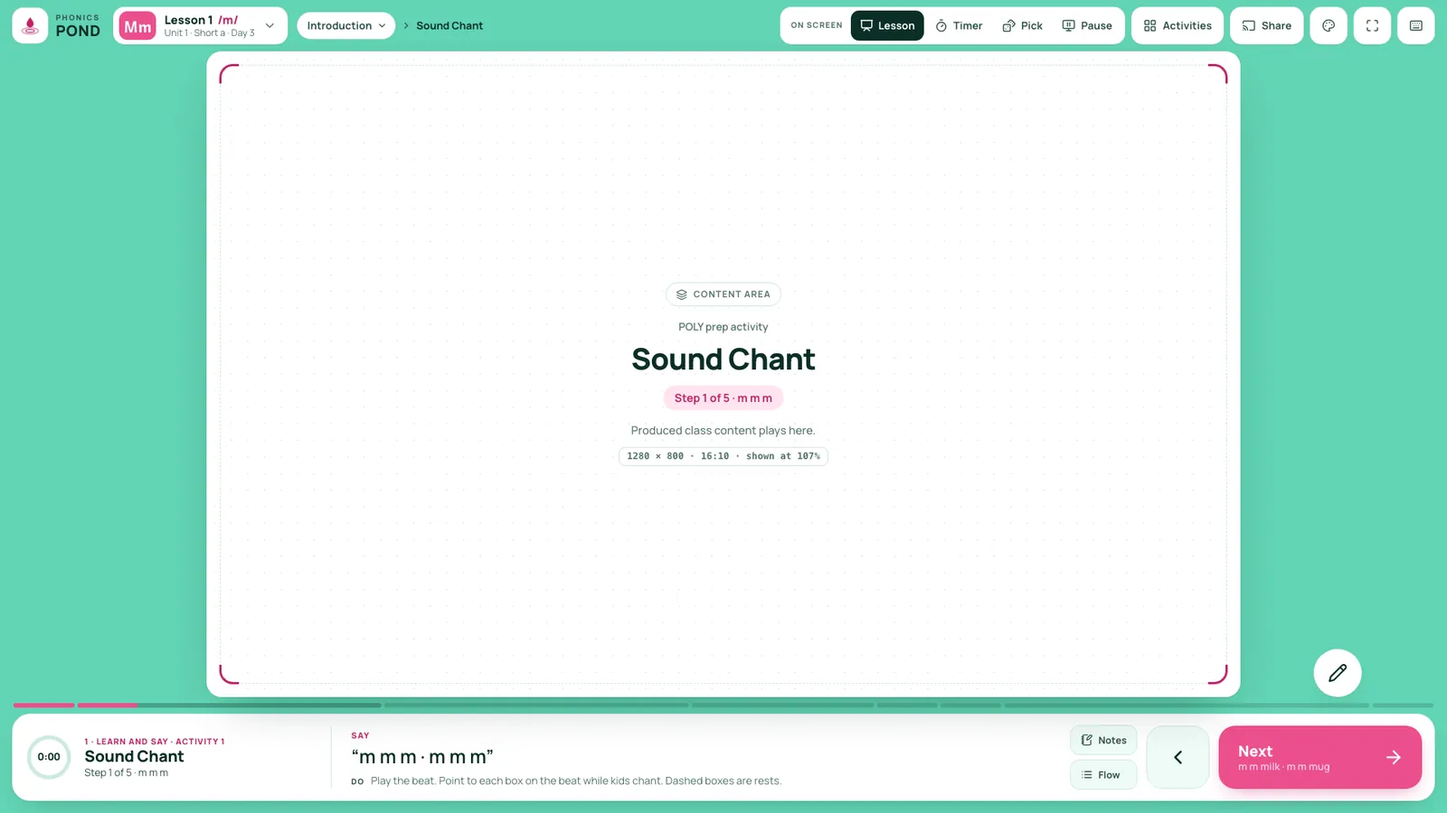
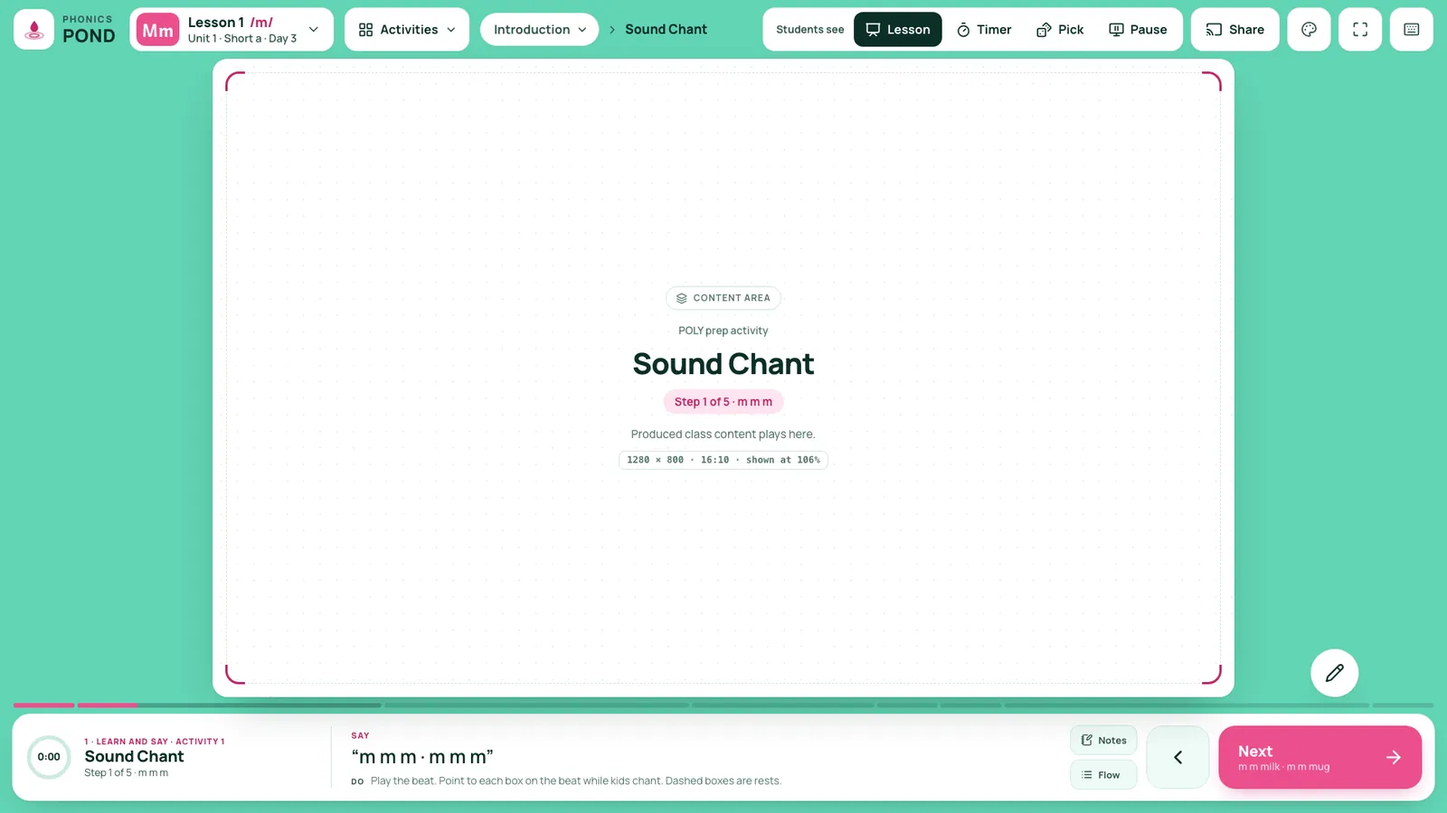
Readable top bar; Activities next to the lesson (source 5c49ebf)

Changed region(s): [[0.0, 0.0, 1.0, 0.84], [0.4375, 0.3422, 0.5625, 0.5911], [0.9062, 0.8089, 0.9375, 0.8711]]

diff --git a/assets/css/concept-b.css b/assets/css/concept-b.css
@@ -18,48 +18,57 @@ button:disabled{cursor:default}
 :focus-visible{outline:3px solid var(--focus);outline-offset:2px}
 
 /* ---------- app grid: controls bottom (default) / left / right · notes pop-up or side panel ---------- */
-.b-app{height:100vh;display:grid;grid-template-rows:68px minmax(0,1fr) auto;grid-template-columns:16px minmax(0,1fr) 16px;grid-template-areas:"top top top" ". stage ." "dock dock dock"}
+.b-app{height:100vh;display:grid;grid-template-rows:78px minmax(0,1fr) auto;grid-template-columns:16px minmax(0,1fr) 16px;grid-template-areas:"top top top" ". stage ." "dock dock dock"}
 .b-top{grid-area:top}
 .b-stagewrap{grid-area:stage}
 .b-dock{grid-area:dock}
 .b-npanel{grid-area:notes}
 :root[data-notes="panel"][data-npanel="shown"] .b-app{grid-template-columns:16px minmax(0,1fr) 16px 380px 16px;grid-template-areas:"top top top top top" ". stage . notes ." "dock dock dock dock dock"}
-:root[data-controls="left"] .b-app{grid-template-rows:68px minmax(0,1fr) 16px;grid-template-columns:16px 344px 16px minmax(0,1fr) 16px;grid-template-areas:"top top top top top" ". dock . stage ." ". . . . ."}
+:root[data-controls="left"] .b-app{grid-template-rows:78px minmax(0,1fr) 16px;grid-template-columns:16px 344px 16px minmax(0,1fr) 16px;grid-template-areas:"top top top top top" ". dock . stage ." ". . . . ."}
 :root[data-controls="left"][data-notes="panel"][data-npanel="shown"] .b-app{grid-template-columns:16px 344px 16px minmax(0,1fr) 16px 360px 16px;grid-template-areas:"top top top top top top top" ". dock . stage . notes ." ". . . . . . ."}
-:root[data-controls="right"] .b-app{grid-template-rows:68px minmax(0,1fr) 16px;grid-template-columns:16px minmax(0,1fr) 16px 344px 16px;grid-template-areas:"top top top top top" ". stage . dock ." ". . . . ."}
+:root[data-controls="right"] .b-app{grid-template-rows:78px minmax(0,1fr) 16px;grid-template-columns:16px minmax(0,1fr) 16px 344px 16px;grid-template-areas:"top top top top top" ". stage . dock ." ". . . . ."}
 :root[data-controls="right"][data-notes="panel"][data-npanel="shown"] .b-app{grid-template-columns:16px 360px 16px minmax(0,1fr) 16px 344px 16px;grid-template-areas:"top top top top top top top" ". notes . stage . dock ." ". . . . . . ."}
 
 /* ---------- top ---------- */
-.b-top{display:flex;align-items:center;gap:12px;padding:0 16px;min-width:0}
-.b-brand{display:flex;align-items:center;gap:10px;flex:none;height:50px;padding-right:4px;text-decoration:none;color:var(--tx)}
-.b-logo{display:grid;place-items:center;width:48px;height:48px;border-radius:15px;background:var(--d2);border:1px solid var(--d3);color:var(--acc-text)}
-.b-logo svg{width:28px;height:28px}
+.b-top{display:flex;align-items:center;gap:14px;padding:0 18px;min-width:0}
+.b-brand{display:flex;align-items:center;gap:11px;flex:none;height:56px;padding-right:4px;text-decoration:none;color:var(--tx)}
+.b-logo{display:grid;place-items:center;width:54px;height:54px;border-radius:16px;background:var(--d2);border:1px solid var(--d3);color:var(--acc-text)}
+.b-logo svg{width:31px;height:31px}
 .b-wm{display:grid;line-height:1}
-.b-wm small{font-size:10px;font-weight:800;letter-spacing:.18em;text-transform:uppercase;color:var(--tx3)}
-.b-wm b{margin-top:3px;font-size:20px;font-weight:800;letter-spacing:.04em}
-.b-lesson{display:flex;align-items:center;gap:11px;flex:none;height:50px;padding:0 14px 0 7px;border-radius:15px;border:1px solid var(--d3);background:var(--d2);text-align:left;color:var(--tx3);transition:border-color .15s,background .15s}
+.b-wm small{font-size:12px;font-weight:800;letter-spacing:.14em;text-transform:uppercase;color:var(--tx2)}
+.b-wm b{margin-top:3px;font-size:24px;font-weight:800;letter-spacing:.03em}
+.b-lesson{display:flex;align-items:center;gap:12px;flex:none;height:58px;padding:0 16px 0 8px;border-radius:16px;border:1px solid var(--d3);background:var(--d2);text-align:left;color:var(--tx3);transition:border-color .15s,background .15s}
 .b-lesson:hover{border-color:var(--d4);background:var(--d3)}
-.b-lt{display:grid;place-items:center;min-width:38px;height:38px;padding:0 6px;border-radius:11px;background:var(--acc);color:var(--acc-ink);font:700 21px/1 var(--kid)}
-.b-ltx{display:grid;line-height:1.2}
-.b-ltx b{font-size:15.5px;font-weight:800;color:var(--tx)}
+.b-lesson>.i{width:20px;height:20px;color:var(--tx2)}
+.b-acts{display:inline-flex;align-items:center;gap:9px;flex:none;height:58px;padding:0 15px 0 17px;border-radius:16px;border:1px solid var(--d3);background:var(--d2);color:var(--tx);font-size:16.5px;font-weight:700;white-space:nowrap;transition:border-color .15s,background .15s}
+.b-acts:hover{border-color:var(--d4);background:var(--d3)}
+.b-acts .i{width:21px;height:21px}
+.b-acts .b-dd{width:17px;height:17px;color:var(--tx2)}
+.b-acts.is-on{background:var(--tx);border-color:var(--tx);color:var(--bg)}
+.b-acts.is-on .b-dd{color:var(--bg);opacity:.7}
+.b-lt{display:grid;place-items:center;min-width:44px;height:44px;padding:0 7px;border-radius:12px;background:var(--acc);color:var(--acc-ink);font:700 24px/1 var(--kid)}
+.b-ltx{display:grid;gap:2px;line-height:1.2}
+.b-ltx b{font-size:18px;font-weight:800;color:var(--tx)}
 .b-ltx b i{font-style:normal;color:var(--acc-text);margin-left:3px}
-.b-ltx small{font-size:12.5px;color:var(--tx3)}
-.b-crumb{display:flex;align-items:center;gap:7px;min-width:0;font-size:14px;color:var(--tx3);white-space:nowrap;overflow:hidden}
-.b-crumb .i{width:14px;height:14px;color:var(--d4)}
-.b-crumb b{color:var(--tx);font-weight:700;overflow:hidden;text-overflow:ellipsis}
+.b-ltx small{font-size:14.5px;font-weight:600;color:var(--tx2)}
+.b-crumb{display:flex;align-items:center;gap:9px;min-width:0;font-size:17px;color:var(--tx2);white-space:nowrap;overflow:hidden}
+.b-crumb .i{width:17px;height:17px;color:var(--tx3)}
+.b-crumb b{color:var(--tx);font-weight:800;overflow:hidden;text-overflow:ellipsis}
 .b-crumb span{color:var(--tx2)}
-.b-crumb button{display:inline-flex;align-items:center;gap:6px;height:36px;padding:0 10px 0 13px;border-radius:999px;border:1px solid var(--d3);background:transparent;color:var(--tx2);font-weight:700}
+.b-crumb button{display:inline-flex;align-items:center;gap:7px;height:44px;padding:0 13px 0 17px;border-radius:999px;font-size:16.5px;border:1px solid var(--d3);background:transparent;color:var(--tx2);font-weight:700}
 .b-crumb button:hover{background:var(--d2);color:var(--tx)}
 .b-crumb button .i{color:var(--tx3)}
-.b-utils{margin-left:auto;display:flex;align-items:center;gap:8px;flex:none}
-.b-ubtn{display:inline-flex;align-items:center;justify-content:center;gap:8px;height:50px;padding:0 15px;border-radius:15px;border:1px solid var(--d3);background:var(--d2);color:var(--tx2);font-size:14px;font-weight:700;white-space:nowrap}
+.b-utils{margin-left:auto;display:flex;align-items:center;gap:10px;flex:none}
+.b-ubtn{display:inline-flex;align-items:center;justify-content:center;gap:9px;height:58px;padding:0 19px;border-radius:16px;border:1px solid var(--d3);background:var(--d2);color:var(--tx);font-size:16.5px;font-weight:700;white-space:nowrap}
+.b-ubtn .i{width:22px;height:22px}
 .b-ubtn:hover{background:var(--d3);color:var(--tx)}
-.b-ubtn--icon{width:50px;padding:0}
+.b-ubtn--icon{width:58px;padding:0;color:var(--tx2)}
 .b-share.is-live{border-color:var(--ok);color:var(--tx)}
 /* what students see: lesson · timer · pick · pause */
-.b-scenes{display:flex;align-items:center;gap:2px;padding:4px;border-radius:15px;background:var(--d2);border:1px solid var(--d3)}
-.b-scnl{display:inline-flex;align-items:center;gap:7px;padding:0 8px 0 9px;font-size:10.5px;font-weight:800;letter-spacing:.1em;text-transform:uppercase;color:var(--tx3);white-space:nowrap}
-.b-scenes button{display:inline-flex;align-items:center;gap:7px;height:40px;padding:0 12px;border-radius:11px;border:0;background:transparent;color:var(--tx2);font-size:14px;font-weight:700;white-space:nowrap}
+.b-scenes{display:flex;align-items:center;gap:3px;height:58px;padding:5px;border-radius:16px;background:var(--d2);border:1px solid var(--d3)}
+.b-scnl{display:inline-flex;align-items:center;gap:8px;padding:0 10px 0 12px;font-size:14px;font-weight:700;color:var(--tx2);white-space:nowrap}
+.b-scenes button{display:inline-flex;align-items:center;gap:8px;height:46px;padding:0 15px;border-radius:12px;border:0;background:transparent;color:var(--tx);font-size:16.5px;font-weight:700;white-space:nowrap}
+.b-scenes button .i{width:21px;height:21px}
 .b-scenes button:hover{background:var(--d3);color:var(--tx)}
 .b-scenes button[aria-pressed="true"]{background:var(--tx);color:var(--bg)}
 .b-live{display:inline-block;flex:none;width:10px;height:10px;border-radius:50%;background:var(--ok);animation:b-livep 1.8s ease-out infinite}
@@ -503,8 +512,11 @@ kbd{display:inline-grid;place-items:center;min-width:28px;height:26px;padding:0 
 
 /* ---------- responsive ---------- */
 @media (max-height:1000px){.b-tool{width:44px;height:44px}.b-tool .i{width:20px;height:20px}.b-sw{width:28px;height:28px;margin:4px 6px}.b-wd{height:34px}}
-@media (max-width:1760px){.b-scnl>span{display:none}.b-scnl{padding:0 4px}.b-scnl:empty{display:none}}
-@media (max-width:1500px){.b-dockrow{grid-template-columns:minmax(250px,300px) minmax(0,1fr) auto}.b-say p{font-size:21px}.b-ubtn span,.b-scenes button span,.b-wm{display:none}.b-next{min-width:220px}.b-scenes button{padding:0 11px}.b-chip{min-width:56px;padding:0 12px}}
+@media (max-width:1840px){.b-scnl>span{display:none}.b-scnl{padding:0 4px}.b-scnl:empty{display:none}.b-crumb{font-size:16px}}
+@media (max-width:1760px){.b-wm{display:none}}
+@media (max-width:1680px){.b-scenes button{padding:0 13px}}
+@media (max-width:1640px){.b-acts span{display:none}.b-acts{padding:0 13px 0 15px}}
+@media (max-width:1500px){.b-dockrow{grid-template-columns:minmax(250px,300px) minmax(0,1fr) auto}.b-say p{font-size:21px}.b-ubtn span,.b-scenes button span,.b-acts span,.b-wm{display:none}.b-next{min-width:220px}.b-scenes button{padding:0 11px}.b-chip{min-width:56px;padding:0 12px}}
 @media (max-width:1180px){.b-crumb{display:none}.b-toggles{display:none}.b-say,.b-tooltray{display:none}.b-dockrow{grid-template-columns:minmax(0,1fr) auto}}
 
 /* ---------- bright themes (Mint · Yellow): the dark frame becomes colour, panels turn white ---------- */
@@ -524,8 +536,8 @@ kbd{display:inline-grid;place-items:center;min-width:28px;height:26px;padding:0 
   --frame-track:rgba(29,26,15,.14); --frame-track-2:rgba(29,26,15,.28);
   --ok:#0E9F6E; --warn:#EA580C; --sb:#2563EB; color-scheme:light;
 }
-:root[data-tone="bright"] .b-logo,:root[data-tone="bright"] .b-lesson,:root[data-tone="bright"] .b-scenes,:root[data-tone="bright"] .b-ubtn,:root[data-tone="bright"] .b-crumb button{background:var(--d1);border-color:rgba(0,0,0,.06);box-shadow:0 1px 2px rgba(0,0,0,.06)}
-:root[data-tone="bright"] .b-lesson:hover,:root[data-tone="bright"] .b-ubtn:hover,:root[data-tone="bright"] .b-crumb button:hover,:root[data-tone="bright"] .b-scenes button:hover{background:var(--d2)}
+:root[data-tone="bright"] .b-logo,:root[data-tone="bright"] .b-lesson,:root[data-tone="bright"] .b-acts:not(.is-on),:root[data-tone="bright"] .b-scenes,:root[data-tone="bright"] .b-ubtn,:root[data-tone="bright"] .b-crumb button{background:var(--d1);border-color:rgba(0,0,0,.06);box-shadow:0 1px 2px rgba(0,0,0,.06)}
+:root[data-tone="bright"] .b-lesson:hover,:root[data-tone="bright"] .b-acts:not(.is-on):hover,:root[data-tone="bright"] .b-ubtn:hover,:root[data-tone="bright"] .b-crumb button:hover,:root[data-tone="bright"] .b-scenes button:hover{background:var(--d2)}
 :root[data-tone="bright"] .b-scenes button[aria-pressed="true"]{background:var(--tx);color:var(--d1)}
 :root[data-tone="bright"] .b-share.is-live{border-color:var(--ok)}
 :root[data-tone="bright"] .b-crumb,:root[data-tone="bright"] .b-crumb .i,:root[data-tone="bright"] .b-wm small,:root[data-tone="bright"] .b-maphead p,:root[data-tone="bright"] .b-ucol h3 span,:root[data-tone="bright"] .b-pausein small{color:var(--tx2)}

diff --git a/index.html b/index.html
@@ -142,7 +142,7 @@ dialog button{position:fixed;top:20px;right:24px;width:48px;height:48px;border-r
       <p class="lead">외국인 강사가 교실 전자칠판에서 쓰는 <b>수업 진행 화면</b>입니다. v18 프로토타입의 메뉴와 수업 흐름(<b>Lesson → Section → Activity → Step</b>)은 그대로 쓰고 화면 틀만 새로 설계했습니다. <b>콘텐츠 영역은 비워 둔 슬롯</b>으로, 제작 콘텐츠가 들어갈 자리의 실제 크기(px)를 실시간으로 보여 줍니다.</p>
     </div>
     <div class="facts">
-      <div class="fact"><small>Screen</small><b class="num">1920 × 1080 e-board</b></div>
+      <div class="fact"><small>Teacher</small><b class="num">PC 1920 × 1080</b></div>
       <div class="fact"><small>UI language</small><b>English</b></div>
       <div class="fact"><small>Lessons</small><b class="num">L1–30 연결</b></div>
       <div class="fact"><small>Student screen</small><b class="num">1280 × 800 · 16:10</b></div>
@@ -175,12 +175,13 @@ dialog button{position:fixed;top:20px;right:24px;width:48px;height:48px;border-r
         <p class="desc">학생 화면은 학원 콘텐츠 규격인 <b>1280 × 800(16:10)</b>으로 고정하고, 대시보드에서는 양옆 여백을 두고 비율 그대로 보여 줍니다. 진행 버튼과 지금 할 말은 손이 닿는 독에 모았고, 컨트롤 위치 · 노트 방식 · 컬러는 강사가 고릅니다.</p>
         <ul class="points">
           <li><svg class="i"><use href="#check"/></svg><span>학생 화면 전환 <b>Lesson · Timer · Pick · Pause</b> — 타이머 <kbd>T</kbd> · 학생 뽑기 <kbd>P</kbd> · 주목 <kbd>B</kbd></span></li>
+          <li><svg class="i"><use href="#check"/></svg><span>레슨 옆 <b>Activities</b> — 그 레슨의 노래 · 율동 · 게임 바로가기</span></li>
           <li><svg class="i"><use href="#check"/></svg>판서 도구는 플로팅 펜 버튼 안에 — 누를 때만 펼침</li>
           <li><svg class="i"><use href="#check"/></svg><span><b>Share</b> 교실 화면(두 번째 화면 · 프로젝터) 실시간 미러링 — 노트 · 컨트롤은 안 보임</span></li>
           <li><svg class="i"><use href="#check"/></svg>레슨별 파닉스 게임 — Croco Phonics · Magic Block · Phonics Match · Phonics Island</li>
           <li><svg class="i"><use href="#check"/></svg>Display — 컨트롤 하단 · 왼쪽 · 오른쪽, 노트 팝업 · 사이드 패널, Dark · Mint · Yellow</li>
         </ul>
-        <dl class="meta"><dt>Content</dt><dd class="num">1280 × 800 · 16:10 <small>· 1920 화면에서 1373 × 858 (107%)</small></dd><dt>Tone</dt><dd>Dark · Mint · Yellow · Manrope</dd><dt>Best for</dt><dd>숙련 강사, 아이들 시선을 칠판에 모을 때</dd></dl>
+        <dl class="meta"><dt>Content</dt><dd class="num">1280 × 800 · 16:10 <small>· 1920 화면에서 1357 × 848 (106%)</small></dd><dt>Tone</dt><dd>Dark · Mint · Yellow · Manrope</dd><dt>Best for</dt><dd>숙련 강사, 아이들 시선을 칠판에 모을 때</dd></dl>
         <div class="cta"><a href="concept-b-stage.html?theme=dark" data-page="concept-b-stage.html">Concept B 열기<svg class="i"><use href="#arrow"/></svg></a></div>
       </div>
     </article>
@@ -211,7 +212,7 @@ dialog button{position:fixed;top:20px;right:24px;width:48px;height:48px;border-r
         <tr><th>진행 방식</th><td>왼쪽 흐름 목록 · 하단 <b>Next step</b></td><td>하단 <b>Next</b> · 진행 세그먼트 · 리모컨</td><td>스크립트 줄 선택 · <b>Next line</b></td></tr>
         <tr><th>강사 가이드</th><td>항상 표시 (접기 가능)</td><td>노트 팝업 또는 사이드 패널</td><td>스크립트 자체가 가이드</td></tr>
         <tr><th>레슨 이동</th><td>상단 팝오버 (6유닛 × 5레슨)</td><td>전체 화면 레슨맵 + 섹션 미리보기</td><td>목차(Contents) 팝오버</td></tr>
-        <tr><th>콘텐츠 영역</th><td class="num"><b>1198 × 760</b> → 1582 × 760</td><td class="num"><b>1280 × 800</b> 고정 → 1373 × 858</td><td class="num"><b>1271 × 845</b> → 1891 × 845</td></tr>
+        <tr><th>콘텐츠 영역</th><td class="num"><b>1198 × 760</b> → 1582 × 760</td><td class="num"><b>1280 × 800</b> 고정 → 1357 × 848</td><td class="num"><b>1271 × 845</b> → 1891 × 845</td></tr>
         <tr><th>톤</th><td>라이트 · POLY Blue</td><td>다크 · 민트 · 옐로 (테마 3종)</td><td>쿨 그레이 · 번트 오렌지</td></tr>
         <tr><th>잘 맞는 상황</th><td>처음 이 교재를 가르칠 때</td><td>진행이 익숙하고 몰입이 중요할 때</td><td>TG 대본을 그대로 따를 때</td></tr>
       </tbody>

diff --git a/assets/js/concept-b.js b/assets/js/concept-b.js
@@ -211,9 +211,17 @@
   }
 
   /* ---------- what students see (top bar) ---------- */
+  // what students see: the lesson, a class activity or game, or a class tool
   const SCENES = [['lesson', 'presentation', 'Lesson', 'Show the lesson'], ['timer', 'timer', 'Timer', 'Timer (T)'], ['pick', 'dices', 'Pick', 'Pick a student (P)'], ['pause', 'monitor-pause', 'Pause', 'Eyes on me (B)']];
   function renderScenes() {
-    $('#scenes').innerHTML = `<span class="b-scnl" title="${live ? 'Sharing to the classroom screen' : 'What students see'}">${live ? '<i class="b-live" aria-hidden="true"></i>' : ''}<span>On screen</span></span>${SCENES.map(([v, i, l, t]) => `<button type="button" data-b="scene" data-v="${v}" aria-pressed="${scene === v}" title="${t}">${ic(i)}<span>${l}</span></button>`).join('')}`;
+    const el = $('#scenes'); if (!el || !FP.lesson()) return;
+    el.innerHTML = `<span class="b-scnl" title="${live ? 'Sharing to the classroom screen' : 'What students see'}">${live ? '<i class="b-live" aria-hidden="true"></i>' : ''}<span>Students see</span></span>${SCENES.map(([v, i, l, t]) => `<button type="button" data-b="scene" data-v="${v}" aria-pressed="${scene === v}" title="${t}">${ic(i)}<span>${l}</span></button>`).join('')}`;
+  }
+  function renderActs() {   // the lesson's class activities + games, next to the lesson button
+    const b = $('#extrasBtn'); if (!b || !FP.lesson()) return;
+    const on = FP.mode() === 'extra';
+    b.classList.toggle('is-on', on); b.setAttribute('aria-pressed', on);
+    b.innerHTML = `${ic('grid')}<span>Activities</span>${ic('chevron-down', 'b-dd')}`;
   }
   function setScene(v) {
     if (v === 'pause' && scene === 'pause') v = resumeTo;
@@ -522,7 +530,7 @@
       case 'flow': toggleSheet('flow'); break;
       case 'ntab': notesTab = v; renderNotes(); break;
       case 'say': FP.speak(v); break;
-      case 'extra': FP.openExtra(v); if ($('#extrasPop').matches(':popover-open')) $('#extrasPop').hidePopover(); break;
+      case 'extra': FP.openExtra(v); if ($('#extrasPop').matches(':popover-open')) $('#extrasPop').hidePopover(); if (scene !== 'lesson') setScene('lesson'); break;
       case 'sections': sectionsMenu(t); break;
       case 'sec': { FP.setSection(+v); const sm = $('#secMenu'); if (sm && sm.matches(':popover-open')) sm.hidePopover(); break; }
       case 'mappick': mapPick = +v; renderMap(); break;
@@ -555,15 +563,21 @@
     $('#' + p).addEventListener('beforetoggle', e => {
       if (e.newState !== 'open') return; if (fill) fill();
       const r = $('#' + b).getBoundingClientRect(), pop = $('#' + p);
-      pop.style.top = (r.bottom + 10) + 'px'; pop.style.right = Math.max(10, innerWidth - r.right) + 'px'; pop.style.left = 'auto';
+      pop.style.top = (r.bottom + 10) + 'px';
+      if (p === 'extrasPop') { pop.style.left = r.left + 'px'; pop.style.right = 'auto'; }
+      else { pop.style.right = Math.max(10, innerWidth - r.right) + 'px'; pop.style.left = 'auto'; }
     });
+  });
+  $('#extrasPop').addEventListener('toggle', e => {
+    if (e.newState !== 'open') return; const pop = $('#extrasPop');
+    pop.style.left = Math.max(10, Math.min(parseFloat(pop.style.left) || 10, innerWidth - pop.offsetWidth - 10)) + 'px';
   });
   $('#rosterPop').addEventListener('beforetoggle', e => { if (e.newState === 'open') renderRoster(); });
   $('#rosterPop').addEventListener('toggle', e => { if (e.newState === 'open') { const tx = $('#rosterTx'); if (tx) tx.focus(); } });
 
   FP.on(e => {
     if (e.type === 'lesson') { refreshGames(); renderTop(); }
-    if (e.type === 'nav') { renderCrumb(); renderDock(); renderFlow(); renderNotes(); renderGame(); broadcast(); }
+    if (e.type === 'nav') { renderCrumb(); renderActs(); renderDock(); renderFlow(); renderNotes(); renderGame(); broadcast(); }
     if (e.type === 'ink') { renderFab(); broadcast(); }
     if (e.type === 'inkmove') broadcastInk();
     if (e.type === 'key') {
@@ -592,7 +606,7 @@
 
   FP.mount($('#stage'), { storageKey: 'fprk-b', keepAwake: true, fresh: qs.has('fresh'), lesson: +qs.get('lesson') || 1, act: qs.get('act') || 'ls1', design: DESIGN });
   addLayers(); refreshGames();
-  renderScenes(); renderFab(); renderShareBtn(); renderDock(); renderGame();
+  renderScenes(); renderActs(); renderFab(); renderShareBtn(); renderDock(); renderGame();
   new ResizeObserver(() => placeFab()).observe($('#stagewrap'));
   placeFab();
   if (qs.get('scene')) setScene(qs.get('scene'));   // QA / deep link: ?scene=timer|pick|pause

diff --git a/concept-b-stage.html b/concept-b-stage.html
@@ -12,8 +12,8 @@ r.dataset.theme=t;r.dataset.tone=t==='dark'?'dark':'bright';r.dataset.controls=c
 <link rel="preconnect" href="https://fonts.googleapis.com">
 <link rel="preconnect" href="https://fonts.gstatic.com" crossorigin>
 <link rel="stylesheet" href="https://fonts.googleapis.com/css2?family=Andika:wght@400;700&family=Manrope:wght@400;500;600;700;800&display=swap">
-<link rel="stylesheet" href="assets/css/fprk-shell.css?v=02e45c1">
-<link rel="stylesheet" href="assets/css/concept-b.css?v=02e45c1">
+<link rel="stylesheet" href="assets/css/fprk-shell.css?v=5c49ebf">
+<link rel="stylesheet" href="assets/css/concept-b.css?v=5c49ebf">
 </head>
 <body>
 <svg width="0" height="0" style="position:absolute" aria-hidden="true">
@@ -23,10 +23,10 @@ r.dataset.theme=t;r.dataset.tone=t==='dark'?'dark':'bright';r.dataset.controls=c
   <header class="b-top">
     <a class="b-brand" href="index.html" title="Phonics POND — all concepts"><span class="b-logo"><svg viewBox="0 0 32 32" aria-hidden="true"><use href="#pond-mark"/></svg></span><span class="b-wm"><small>Phonics</small><b>POND</b></span></a>
     <button type="button" class="b-lesson" id="lessonBtn" aria-haspopup="dialog" title="Lesson map (M)"></button>
+    <button type="button" class="b-acts" id="extrasBtn" popovertarget="extrasPop" title="Class activities and games for this lesson (A)"></button>
     <nav class="b-crumb" id="crumb" aria-label="Where you are"></nav>
     <div class="b-utils">
       <div class="b-scenes" id="scenes" role="group" aria-label="What students see"></div>
-      <button type="button" class="b-ubtn" id="extrasBtn" popovertarget="extrasPop" title="Class activities and games (A)"><svg class="i"><use href="#i-grid"/></svg><span>Activities</span></button>
       <button type="button" class="b-ubtn b-share" id="shareBtn" popovertarget="sharePop" title="Share with students (S)"></button>
       <button type="button" class="b-ubtn b-ubtn--icon" id="displayBtn" popovertarget="displayPop" title="Display — layout and color" aria-label="Display settings"><svg class="i"><use href="#i-palette"/></svg></button>
       <button type="button" class="b-ubtn b-ubtn--icon" id="fsBtn" title="Full screen (F)" aria-label="Full screen"><svg class="i"><use href="#i-maximize"/></svg></button>
@@ -75,8 +75,8 @@ r.dataset.theme=t;r.dataset.tone=t==='dark'?'dark':'bright';r.dataset.controls=c
   </dl>
 </div>
 
-<script src="assets/js/fprk-data.js?v=02e45c1"></script>
-<script src="assets/js/fprk-core.js?v=02e45c1"></script>
-<script src="assets/js/concept-b.js?v=02e45c1"></script>
+<script src="assets/js/fprk-data.js?v=5c49ebf"></script>
+<script src="assets/js/fprk-core.js?v=5c49ebf"></script>
+<script src="assets/js/concept-b.js?v=5c49ebf"></script>
 </body>
 </html>

diff --git a/concept-c-script.html b/concept-c-script.html
@@ -8,8 +8,8 @@
 <link rel="preconnect" href="https://fonts.gstatic.com" crossorigin>
 <link rel="stylesheet" href="https://cdn.jsdelivr.net/gh/orioncactus/pretendard@v1.3.9/dist/web/variable/pretendardvariable-dynamic-subset.min.css">
 <link rel="stylesheet" href="https://fonts.googleapis.com/css2?family=Andika:wght@400;700&display=swap">
-<link rel="stylesheet" href="assets/css/fprk-shell.css?v=02e45c1">
-<link rel="stylesheet" href="assets/css/concept-c.css?v=02e45c1">
+<link rel="stylesheet" href="assets/css/fprk-shell.css?v=5c49ebf">
+<link rel="stylesheet" href="assets/css/concept-c.css?v=5c49ebf">
 </head>
 <body>
 <div class="c-app" id="app">
@@ -53,8 +53,8 @@
   </dl>
 </div>
 
-<script src="assets/js/fprk-data.js?v=02e45c1"></script>
-<script src="assets/js/fprk-core.js?v=02e45c1"></script>
-<script src="assets/js/concept-c.js?v=02e45c1"></script>
+<script src="assets/js/fprk-data.js?v=5c49ebf"></script>
+<script src="assets/js/fprk-core.js?v=5c49ebf"></script>
+<script src="assets/js/concept-c.js?v=5c49ebf"></script>
 </body>
 </html>

diff --git a/concept-a-guide.html b/concept-a-guide.html
@@ -7,8 +7,8 @@
 <link rel="preconnect" href="https://fonts.googleapis.com">
 <link rel="preconnect" href="https://fonts.gstatic.com" crossorigin>
 <link rel="stylesheet" href="https://fonts.googleapis.com/css2?family=Andika:wght@400;700&family=Figtree:wght@400;500;600;700;800&display=swap">
-<link rel="stylesheet" href="assets/css/fprk-shell.css?v=02e45c1">
-<link rel="stylesheet" href="assets/css/concept-a.css?v=02e45c1">
+<link rel="stylesheet" href="assets/css/fprk-shell.css?v=5c49ebf">
+<link rel="stylesheet" href="assets/css/concept-a.css?v=5c49ebf">
 </head>
 <body>
 <div class="a-app" id="app">
@@ -58,8 +58,8 @@
   </dl>
 </div>
 
-<script src="assets/js/fprk-data.js?v=02e45c1"></script>
-<script src="assets/js/fprk-core.js?v=02e45c1"></script>
-<script src="assets/js/concept-a.js?v=02e45c1"></script>
+<script src="assets/js/fprk-data.js?v=5c49ebf"></script>
+<script src="assets/js/fprk-core.js?v=5c49ebf"></script>
+<script src="assets/js/concept-a.js?v=5c49ebf"></script>
 </body>
 </html>

diff --git a/README.md b/README.md
@@ -3,4 +3,4 @@
 https://jinilee-hue.github.io/FPRK-Class-Dashboard/
 
 Public copy of the class-dashboard frame concepts A · B · C. Textbook page scans are not included.
-Built from the private working repo with `_dev/publish.py` (source 02e45c1).
+Built from the private working repo with `_dev/publish.py` (source 5c49ebf).
